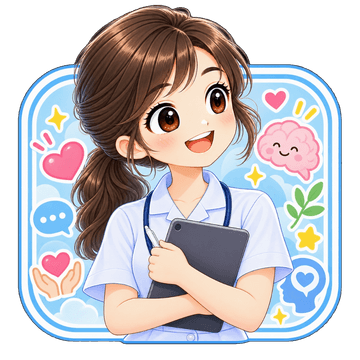
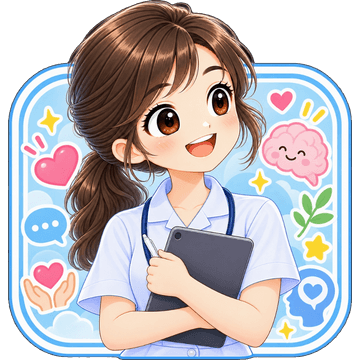
fix(analysis): enlarge character and badge sizes for iPad, fix background opacity, remove badge black borders, and extend timer with progress bar

diff --git a/src/views/AnalysisView.tsx b/src/views/AnalysisView.tsx
@@ -26,6 +26,9 @@ export const AnalysisView: React.FC<AnalysisViewProps> = ({
   // Active highlighted badge index (cycles sequentially to simulate AI scanning)
   const [activeBadgeIdx, setActiveBadgeIdx] = useState(0);
 
+  // Analysis progress percentage (0 -> 100%)
+  const [progress, setProgress] = useState(0);
+
   // Stepper state: 1..8 steps
   const stepperSteps = [1, 2, 3, 4, 5, 6, 7, 8];
 
@@ -37,42 +40,56 @@ export const AnalysisView: React.FC<AnalysisViewProps> = ({
     });
   }, [badges]);
 
-  // Cycling badge highlight every 320ms
+  // Cycling badge highlight every 380ms
   useEffect(() => {
     const scanInterval = setInterval(() => {
       setActiveBadgeIdx((prev) => (prev + 1) % badges.length);
-    }, 320);
+    }, 380);
 
     return () => clearInterval(scanInterval);
   }, [badges.length]);
 
-  // Complete analysis after 4.8 seconds to give full visual appreciation
+  // Complete analysis smoothly over 7.5 seconds with live progress bar
   useEffect(() => {
-    const timer = setTimeout(() => {
-      try {
-        confetti({
-          particleCount: 90,
-          spread: 75,
-          origin: { y: 0.6 },
-          colors: ['#002B7F', '#FF3366', '#00A3FF', '#10B981', '#F5A623', '#8B5CF6'],
-        });
-      } catch (_e) {}
-      onComplete();
-    }, 4800);
+    const totalDurationMs = 7500;
+    const startTime = Date.now();
 
-    return () => clearTimeout(timer);
+    const interval = setInterval(() => {
+      const elapsed = Date.now() - startTime;
+      const pct = Math.min(100, Math.round((elapsed / totalDurationMs) * 100));
+      setProgress(pct);
+
+      if (elapsed >= totalDurationMs) {
+        clearInterval(interval);
+        try {
+          confetti({
+            particleCount: 110,
+            spread: 80,
+            origin: { y: 0.6 },
+            colors: ['#002B7F', '#FF3366', '#00A3FF', '#10B981', '#F5A623', '#8B5CF6'],
+          });
+        } catch (_e) {}
+        onComplete();
+      }
+    }, 50);
+
+    return () => clearInterval(interval);
   }, [onComplete]);
 
-  // Split badges into Left and Right columns around the center character
-  const midPoint = Math.ceil(badges.length / 2);
-  const leftBadges = badges.slice(0, midPoint);
-  const rightBadges = badges.slice(midPoint);
+  // Layout distribution:
+  // - Female (8 badges): 4 Left, 4 Right
+  // - Male (7 badges): 3 Left, 3 Right, 1 Center Bottom (Nursing + Technology)
+  const leftBadges = isFemale ? badges.slice(0, 4) : badges.slice(0, 3);
+  const rightBadges = isFemale ? badges.slice(4, 8) : badges.slice(3, 6);
+  const centerBottomBadge = !isFemale && badges.length >= 7 ? badges[6] : null;
 
   return (
     <div
-      className="relative h-full w-full flex flex-col justify-between overflow-hidden select-none bg-cover bg-center bg-no-repeat animate-fade-in"
+      className="relative h-full w-full flex flex-col justify-between overflow-hidden select-none bg-cover animate-fade-in"
       style={{
         backgroundImage: `url(${ASSETS.processing.background})`,
+        backgroundPosition: 'center bottom',
+        backgroundSize: 'cover',
       }}
     >
       {/* ── Soft Ambient Lighting Overlay ────────────────────────────────────── */}
@@ -81,11 +98,11 @@ export const AnalysisView: React.FC<AnalysisViewProps> = ({
       {/* ── 1. Top Bar: Faculty Logo + Audio Toggle ──────────────────────────── */}
       <div className="relative z-30 shrink-0 flex items-center justify-between px-3 sm:px-6 pt-3 sm:pt-4 max-w-4xl mx-auto w-full">
         {/* Faculty Logo Pill */}
-        <div className="bg-white/95 backdrop-blur-md rounded-full px-3 py-1.5 shadow-md flex items-center gap-2 border border-white/80">
+        <div className="bg-white/95 backdrop-blur-md rounded-full px-3.5 py-1.5 shadow-md flex items-center gap-2 border border-white/80">
           <img
             src={ASSETS.home.facultyLogo}
             alt="มหาวิทยาลัยมหิดล คณะพยาบาลศาสตร์"
-            className="h-6 sm:h-7 w-auto object-contain"
+            className="h-6 sm:h-7 md:h-8 w-auto object-contain"
           />
         </div>
 
@@ -108,12 +125,12 @@ export const AnalysisView: React.FC<AnalysisViewProps> = ({
                 {/* Step Circle & Badge */}
                 <div className="flex flex-col items-center shrink-0 relative">
                   <div
-                    className={`w-7 h-7 sm:w-8 sm:h-8 rounded-full flex items-center justify-center font-black text-xs sm:text-sm font-heading transition-all duration-300 ${
+                    className={`w-7 h-7 sm:w-8 sm:h-8 md:w-9 md:h-9 rounded-full flex items-center justify-center font-black text-xs sm:text-sm font-heading transition-all duration-300 ${
                       isCurrent
                         ? 'bg-gradient-to-tr from-[#FF3366] to-[#FF6584] text-white shadow-[0_0_18px_rgba(255,51,102,0.65)] scale-110 ring-4 ring-rose-200/80'
                         : isCompleted
                         ? 'bg-[#1D63D8] text-white shadow-sm'
-                        : 'bg-slate-200/90 text-slate-500 border border-slate-300'
+                        : 'bg-white/70 text-slate-500 border border-slate-300'
                     }`}
                   >
                     {stepNum}
@@ -143,12 +160,13 @@ export const AnalysisView: React.FC<AnalysisViewProps> = ({
         </div>
       </div>
 
-      {/* ── 3. Main Frosted Card Container ──────────────────────────────────── */}
-      <div className="relative z-20 flex-1 flex flex-col justify-between max-w-4xl mx-auto w-full px-3 sm:px-6 pb-3 sm:pb-4 min-h-0">
-        <div className="h-full w-full bg-white/90 backdrop-blur-md rounded-3xl border-2 border-white/90 shadow-2xl p-3 sm:p-4 flex flex-col justify-between overflow-hidden relative">
+      {/* ── 3. Main Translucent Glass Card Container ────────────────────────── */}
+      {/* Uses bg-white/45 with backdrop-blur so the campus background shines through */}
+      <div className="relative z-20 flex-1 flex flex-col justify-between max-w-4xl mx-auto w-full px-2.5 sm:px-5 md:px-6 pb-2.5 sm:pb-4 min-h-0">
+        <div className="h-full w-full bg-white/50 backdrop-blur-md rounded-3xl border-2 border-white/80 shadow-[0_12px_40px_rgba(0,43,127,0.14)] p-2.5 sm:p-3.5 md:p-4 flex flex-col justify-between overflow-hidden relative">
 
           {/* ── Card Header: Title & Info ── */}
-          <div className="text-center shrink-0 pt-1">
+          <div className="text-center shrink-0 pt-0.5">
             {/* Analyzing Pill Badge */}
             <div className="inline-flex items-center gap-1.5 px-3.5 py-0.5 rounded-full bg-gradient-to-r from-pink-500/15 via-rose-500/20 to-pink-500/15 border border-pink-400/40 text-pink-600 text-[10px] sm:text-xs font-black uppercase tracking-wider mb-1 shadow-xs">
               <Sparkles className="w-3 h-3 text-pink-500 animate-pulse" />
@@ -163,44 +181,44 @@ export const AnalysisView: React.FC<AnalysisViewProps> = ({
               </span>
               กำลังวิเคราะห์
             </h2>
-            <h3 className="text-base sm:text-lg md:text-xl font-bold text-slate-700 tracking-tight leading-snug">
+            <h3 className="text-sm sm:text-base md:text-lg font-bold text-slate-700 tracking-tight leading-snug">
               เส้นทางพยาบาลที่ใช่สำหรับคุณ...
             </h3>
 
             {/* Sub-caption */}
-            <p className="text-[11px] sm:text-xs font-semibold text-slate-500 mt-0.5 flex items-center justify-center gap-1">
+            <p className="text-[10.5px] sm:text-xs font-semibold text-slate-500 mt-0.5 flex items-center justify-center gap-1">
               <span>✨ จากคำตอบทั้ง {totalQuestions} ข้อของคุณ 💕</span>
             </p>
           </div>
 
-          {/* ── Center Stage: Center Character & Surrounding Orbiting Badges ── */}
-          <div className="flex-1 relative flex items-center justify-between my-1 sm:my-2 min-h-0 overflow-hidden">
+          {/* ── Center Stage: Large Center Character & Surrounding Orbiting Badges ── */}
+          <div className="flex-1 relative flex items-center justify-between my-1 min-h-0 overflow-hidden">
 
             {/* Left Badges Column */}
-            <div className="w-[28%] sm:w-[25%] flex flex-col justify-around h-full z-20 py-1 space-y-1 sm:space-y-1.5">
+            <div className="w-[30%] sm:w-[26%] md:w-[24%] flex flex-col justify-around h-full z-20 py-1 space-y-1 sm:space-y-2">
               {leftBadges.map((badge, idx) => {
                 const isScanning = activeBadgeIdx === idx;
                 return (
                   <div
                     key={badge.pathId}
-                    className={`rounded-xl sm:rounded-2xl p-1 sm:p-1.5 flex flex-col items-center justify-center transition-all duration-300 border animate-scale-up ${
+                    className={`w-full rounded-2xl p-1.5 sm:p-2 md:p-2.5 flex flex-col items-center justify-center transition-all duration-300 border animate-scale-up ${
                       isScanning
-                        ? 'bg-white border-pink-400 ring-2 ring-pink-400/70 shadow-lg shadow-pink-200/80 scale-105'
-                        : 'bg-white/85 hover:bg-white border-sky-200/80 shadow-xs'
+                        ? 'bg-white border-pink-400 ring-2 ring-pink-400/80 shadow-lg shadow-pink-200/90 scale-105'
+                        : 'bg-white/90 hover:bg-white border-sky-200/80 shadow-xs'
                     }`}
                   >
-                    <div className="w-9 h-9 sm:w-11 sm:h-11 md:w-12 md:h-12 overflow-hidden flex items-center justify-center">
+                    <div className="w-11 h-11 sm:w-14 sm:h-14 md:w-18 md:h-18 overflow-hidden flex items-center justify-center">
                       <img
                         src={badge.imgUrl}
                         alt={badge.titleEn}
                         className="w-full h-full object-contain drop-shadow-xs"
                         loading="eager"
                         decoding="sync"
-                        width={48}
-                        height={48}
+                        width={72}
+                        height={72}
                       />
                     </div>
-                    <span className="text-[7.5px] sm:text-[8.5px] font-black text-[#002B7F] tracking-tight uppercase text-center mt-0.5 line-clamp-1 leading-tight px-0.5">
+                    <span className="text-[7.5px] sm:text-[9px] md:text-[10px] font-black text-[#002B7F] tracking-tight uppercase text-center mt-1 leading-tight px-1 line-clamp-1">
                       {badge.titleEn}
                     </span>
                   </div>
@@ -208,50 +226,76 @@ export const AnalysisView: React.FC<AnalysisViewProps> = ({
               })}
             </div>
 
-            {/* Center Thoughtful Character with Glowing Radar Circles */}
-            <div className="flex-1 h-full relative flex items-center justify-center z-10 px-1">
-              {/* Concentric Glowing Radar Circles */}
-              <div className="absolute w-48 h-48 sm:w-60 sm:h-60 md:w-72 md:h-72 rounded-full border border-sky-300/40 bg-radial from-sky-200/30 via-transparent to-transparent animate-pulse pointer-events-none" />
-              <div className="absolute w-36 h-36 sm:w-44 sm:h-44 md:w-52 md:h-52 rounded-full border border-dashed border-sky-400/50 animate-spin-slow pointer-events-none" />
+            {/* Center Thoughtful Character (Prominently Sized) with Sci-Fi Radar Rings */}
+            <div className="flex-1 h-full relative flex flex-col items-center justify-center z-10 px-1 min-h-0">
+              {/* Concentric Glowing Radar Rings */}
+              <div className="absolute w-52 h-52 sm:w-68 sm:h-68 md:w-84 md:h-84 rounded-full border border-sky-300/40 bg-radial from-sky-200/25 via-transparent to-transparent animate-pulse pointer-events-none" />
+              <div className="absolute w-40 h-40 sm:w-52 sm:h-52 md:w-68 md:h-68 rounded-full border border-dashed border-sky-400/45 animate-spin-slow pointer-events-none" />
 
-              {/* Student Character Full Image */}
-              <div className="relative h-full max-h-[260px] sm:max-h-[300px] md:max-h-[340px] flex items-center justify-center">
+              {/* Student Character Full Image — Fills generous vertical height */}
+              <div className="relative flex-1 w-full flex items-center justify-center min-h-0 max-h-[340px] sm:max-h-[420px] md:max-h-[480px]">
                 <img
                   src={centerCharacterUrl}
                   alt={isFemale ? 'Female Student' : 'Male Student'}
-                  className="h-full w-auto object-contain drop-shadow-xl animate-float-subtle select-none"
+                  className="h-full w-auto max-w-full object-contain drop-shadow-2xl animate-float-subtle select-none"
                   loading="eager"
                   decoding="sync"
                 />
               </div>
+
+              {/* Center Bottom Badge for Male (NURSING + TECHNOLOGY) */}
+              {centerBottomBadge && (
+                <div
+                  className={`mt-1 rounded-2xl px-2 py-1 sm:py-1.5 flex items-center gap-1.5 sm:gap-2 transition-all duration-300 border animate-scale-up z-20 ${
+                    activeBadgeIdx === 6
+                      ? 'bg-white border-sky-400 ring-2 ring-sky-400/80 shadow-lg shadow-sky-200/90 scale-105'
+                      : 'bg-white/90 hover:bg-white border-sky-200/80 shadow-xs'
+                  }`}
+                >
+                  <div className="w-8 h-8 sm:w-10 sm:h-10 md:w-12 md:h-12 overflow-hidden flex items-center justify-center shrink-0">
+                    <img
+                      src={centerBottomBadge.imgUrl}
+                      alt={centerBottomBadge.titleEn}
+                      className="w-full h-full object-contain drop-shadow-xs"
+                      loading="eager"
+                      decoding="sync"
+                      width={48}
+                      height={48}
+                    />
+                  </div>
+                  <span className="text-[7.5px] sm:text-[9px] md:text-[10px] font-black text-[#002B7F] tracking-tight uppercase whitespace-nowrap">
+                    {centerBottomBadge.titleEn}
+                  </span>
+                </div>
+              )}
             </div>
 
             {/* Right Badges Column */}
-            <div className="w-[28%] sm:w-[25%] flex flex-col justify-around h-full z-20 py-1 space-y-1 sm:space-y-1.5">
+            <div className="w-[30%] sm:w-[26%] md:w-[24%] flex flex-col justify-around h-full z-20 py-1 space-y-1 sm:space-y-2">
               {rightBadges.map((badge, rIdx) => {
-                const globalIdx = midPoint + rIdx;
+                const globalIdx = leftBadges.length + rIdx;
                 const isScanning = activeBadgeIdx === globalIdx;
                 return (
                   <div
                     key={badge.pathId}
-                    className={`rounded-xl sm:rounded-2xl p-1 sm:p-1.5 flex flex-col items-center justify-center transition-all duration-300 border animate-scale-up ${
+                    className={`w-full rounded-2xl p-1.5 sm:p-2 md:p-2.5 flex flex-col items-center justify-center transition-all duration-300 border animate-scale-up ${
                       isScanning
-                        ? 'bg-white border-sky-400 ring-2 ring-sky-400/70 shadow-lg shadow-sky-200/80 scale-105'
-                        : 'bg-white/85 hover:bg-white border-sky-200/80 shadow-xs'
+                        ? 'bg-white border-sky-400 ring-2 ring-sky-400/80 shadow-lg shadow-sky-200/90 scale-105'
+                        : 'bg-white/90 hover:bg-white border-sky-200/80 shadow-xs'
                     }`}
                   >
-                    <div className="w-9 h-9 sm:w-11 sm:h-11 md:w-12 md:h-12 overflow-hidden flex items-center justify-center">
+                    <div className="w-11 h-11 sm:w-14 sm:h-14 md:w-18 md:h-18 overflow-hidden flex items-center justify-center">
                       <img
                         src={badge.imgUrl}
                         alt={badge.titleEn}
                         className="w-full h-full object-contain drop-shadow-xs"
                         loading="eager"
                         decoding="sync"
-                        width={48}
-                        height={48}
+                        width={72}
+                        height={72}
                       />
                     </div>
-                    <span className="text-[7.5px] sm:text-[8.5px] font-black text-[#002B7F] tracking-tight uppercase text-center mt-0.5 line-clamp-1 leading-tight px-0.5">
+                    <span className="text-[7.5px] sm:text-[9px] md:text-[10px] font-black text-[#002B7F] tracking-tight uppercase text-center mt-1 leading-tight px-1 line-clamp-1">
                       {badge.titleEn}
                     </span>
                   </div>
@@ -260,26 +304,34 @@ export const AnalysisView: React.FC<AnalysisViewProps> = ({
             </div>
           </div>
 
-          {/* ── 4. Floating AI Robot Mascot Status Bar ──────────────────────── */}
+          {/* ── 4. Floating AI Robot Mascot Status Bar with Live Progress ──── */}
           <div className="shrink-0 bg-gradient-to-r from-sky-50/95 via-blue-50/95 to-pink-50/90 border border-sky-200/90 rounded-2xl px-3 py-1.5 sm:py-2 shadow-sm flex items-center justify-between gap-2.5 my-1">
-            <div className="flex items-center gap-2 sm:gap-2.5">
+            <div className="flex items-center gap-2 sm:gap-3 flex-1 min-w-0">
               <img
                 src={ASSETS.processing.robot}
                 alt="AI Robot Mascot"
-                className="w-8 h-8 sm:w-10 sm:h-10 object-contain drop-shadow-sm animate-mascot-bob"
+                className="w-8 h-8 sm:w-10 sm:h-10 md:w-11 md:h-11 object-contain drop-shadow-sm animate-mascot-bob shrink-0"
               />
-              <div className="text-left">
-                <div className="text-xs sm:text-sm font-black text-slate-800 font-heading leading-tight">
-                  กำลังประมวลผลคำตอบของคุณ
+              <div className="text-left flex-1 min-w-0">
+                <div className="flex items-center justify-between text-xs sm:text-sm font-black text-slate-800 font-heading leading-tight">
+                  <span>กำลังประมวลผลคำตอบของคุณ</span>
+                  <span className="text-blue-600 text-[11px] sm:text-xs font-mono">{progress}%</span>
                 </div>
-                <div className="text-[10.5px] sm:text-xs font-extrabold text-pink-600 leading-tight">
+                {/* Live Progress Bar */}
+                <div className="w-full bg-slate-200/70 rounded-full h-1.5 sm:h-2 mt-1 overflow-hidden">
+                  <div
+                    className="h-full bg-gradient-to-r from-sky-400 via-blue-500 to-pink-500 rounded-full transition-all duration-75 ease-out"
+                    style={{ width: `${progress}%` }}
+                  />
+                </div>
+                <div className="text-[10px] sm:text-[11px] font-extrabold text-pink-600 leading-tight mt-0.5">
                   โปรดรอสักครู่ 💕
                 </div>
               </div>
             </div>
 
             {/* Rotating Dots Loader */}
-            <div className="flex items-center gap-1 text-pink-500">
+            <div className="flex items-center gap-1 text-pink-500 shrink-0">
               <Loader2 className="w-5 h-5 sm:w-6 sm:h-6 animate-spin text-pink-500" />
             </div>
           </div>
@@ -290,7 +342,7 @@ export const AnalysisView: React.FC<AnalysisViewProps> = ({
             {onBack ? (
               <button
                 onClick={onBack}
-                className="px-4 sm:px-5 py-2 rounded-full bg-white hover:bg-slate-50 text-[#002B7F] font-bold text-xs sm:text-sm border border-slate-200/80 shadow-sm flex items-center gap-1 active:scale-95 transition-all"
+                className="px-4 sm:px-5 py-2 rounded-full bg-white/95 hover:bg-white text-[#002B7F] font-bold text-xs sm:text-sm border border-slate-200/80 shadow-sm flex items-center gap-1 active:scale-95 transition-all"
               >
                 <ChevronLeft className="w-4 h-4 text-[#002B7F]" />
                 <span>ย้อนกลับ</span>
@@ -311,3 +363,4 @@ export const AnalysisView: React.FC<AnalysisViewProps> = ({
     </div>
   );
 };
+
